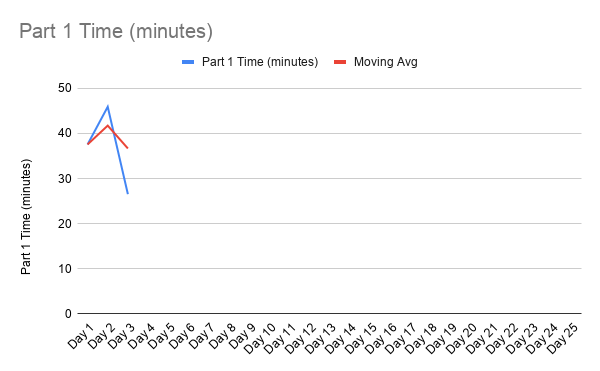
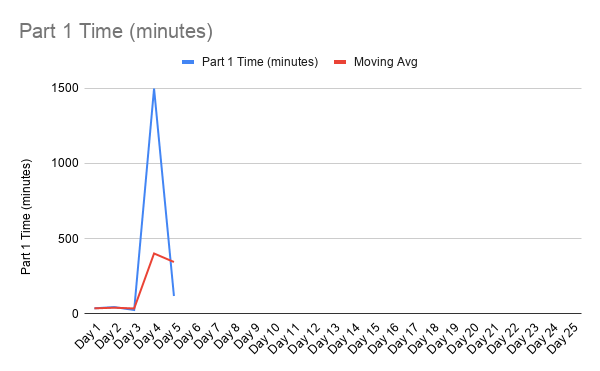
Day 4 + 5 stats

diff --git a/README.md b/README.md
@@ -25,8 +25,8 @@ Leaderboard appearances:
 | 1    | 00:37:34 (1279)               | 01:12:42 (1174)               |      |
 | 2    | 00:45:55 (3165)               | 00:59:22 (2722)               |      |
 | 3    | 00:26:33 (1987)               | 00:39:31 (1841)               |      |
-| 4    |                               |                               |      |
-| 5    |                               |                               |      |
+| 4    | 24:58:45 (25507)              | 25:32:45 (23574)              | Started late |
+| 5    | 01:59:30 (3248)               | 02:37:27 (2997)               |      |
 | 6    |                               |                               |      |
 | 7    |                               |                               |      |
 | 8    |                               |                               |      |
